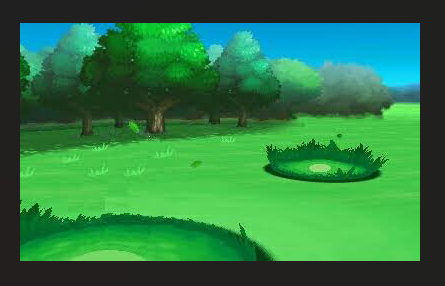
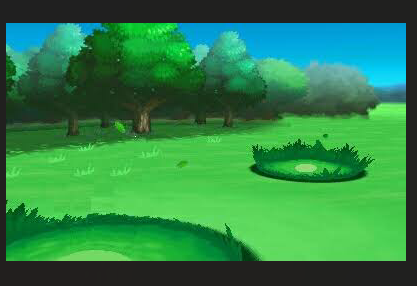
adjust battle size

diff --git a/online.html b/online.html
@@ -39,7 +39,7 @@
     .team-card:hover{border-color:#ffcb05;transform:scale(1.05)}
     .team-card.selected{border-color:#4caf50;background:rgba(76,175,80,0.4);box-shadow:0 0 30px rgba(76,175,80,0.6)}
     .team-card img{width:100%;height:150px;object-fit:contain}
-    .battle-area{position:relative;width:1000px;height:560px;margin:40px auto;background:url('/images/Screenshot 2025-11-20 210130.png') center/cover no-repeat;border-radius:20px;overflow:hidden;box-shadow:0 0 30px rgba(255,203,5,0.8)}
+    .battle-area{position:relative;width:1250px;height:560px;margin:40px auto;background:url('/images/Screenshot 2025-11-20 210130.png') center/cover no-repeat;border-radius:20px;overflow:hidden;}
     .player-base{bottom:80px;left:80px;width:300px;text-align:center}
     .pokemon-back img{width:280px;height:280px;image-rendering:pixelated;filter:drop-shadow(0 10px 20px rgba(0,0,0,0.6))}
     .opponent-base{position:absolute;top:60px;right:80px;width:300px;text-align:center}
